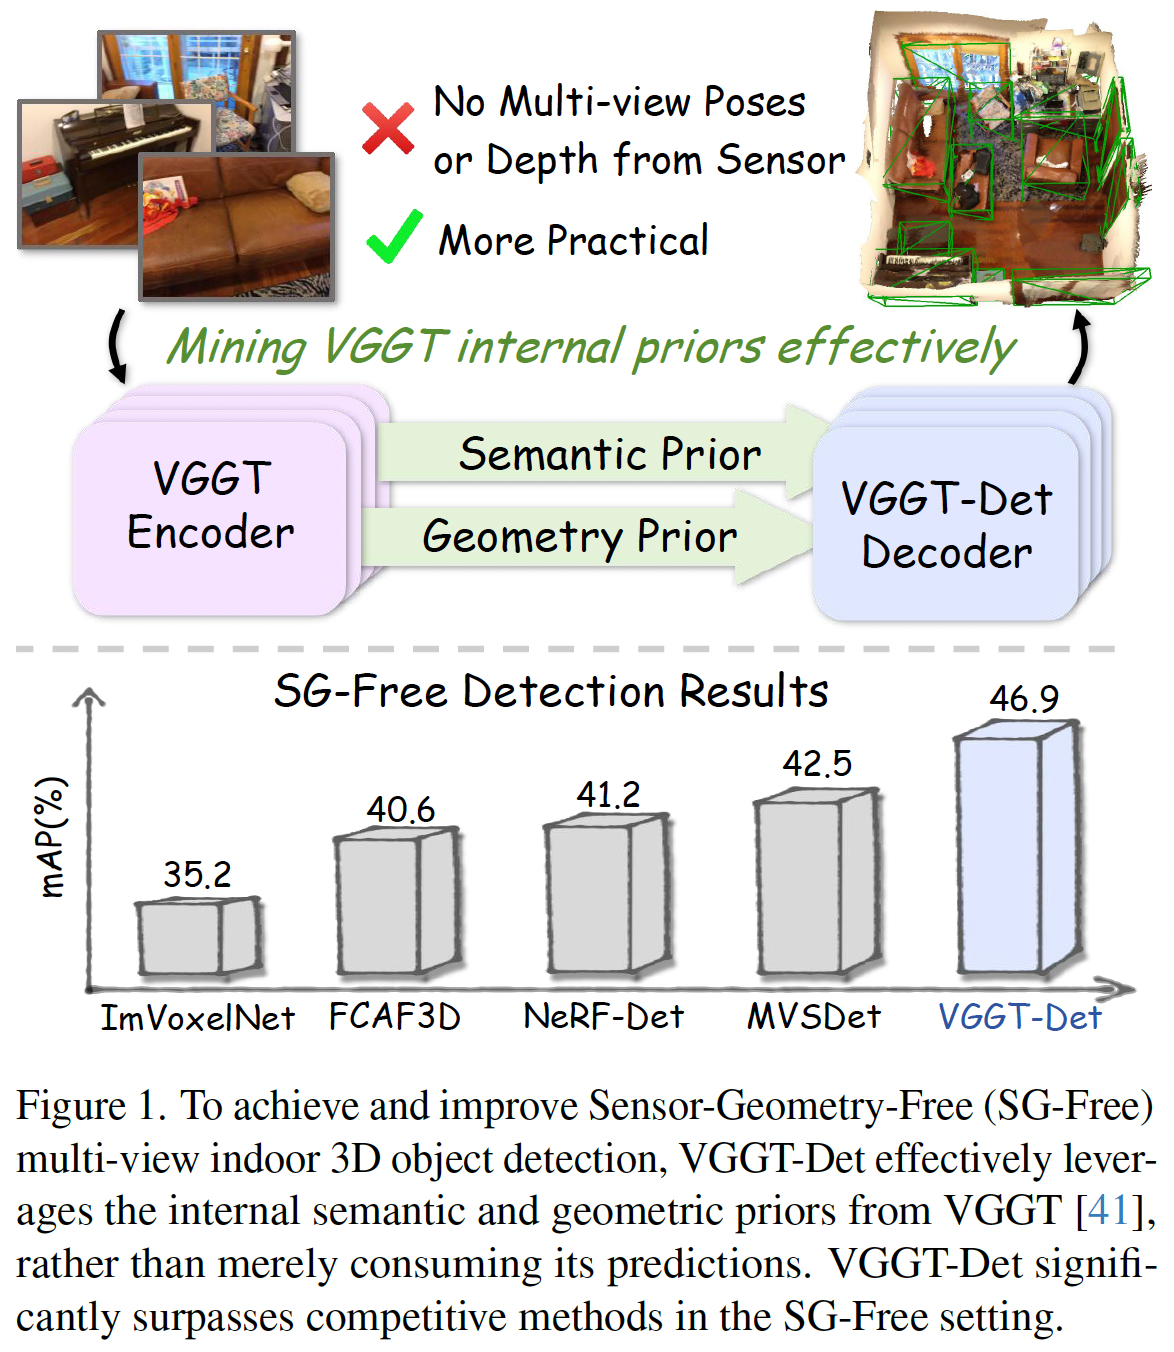
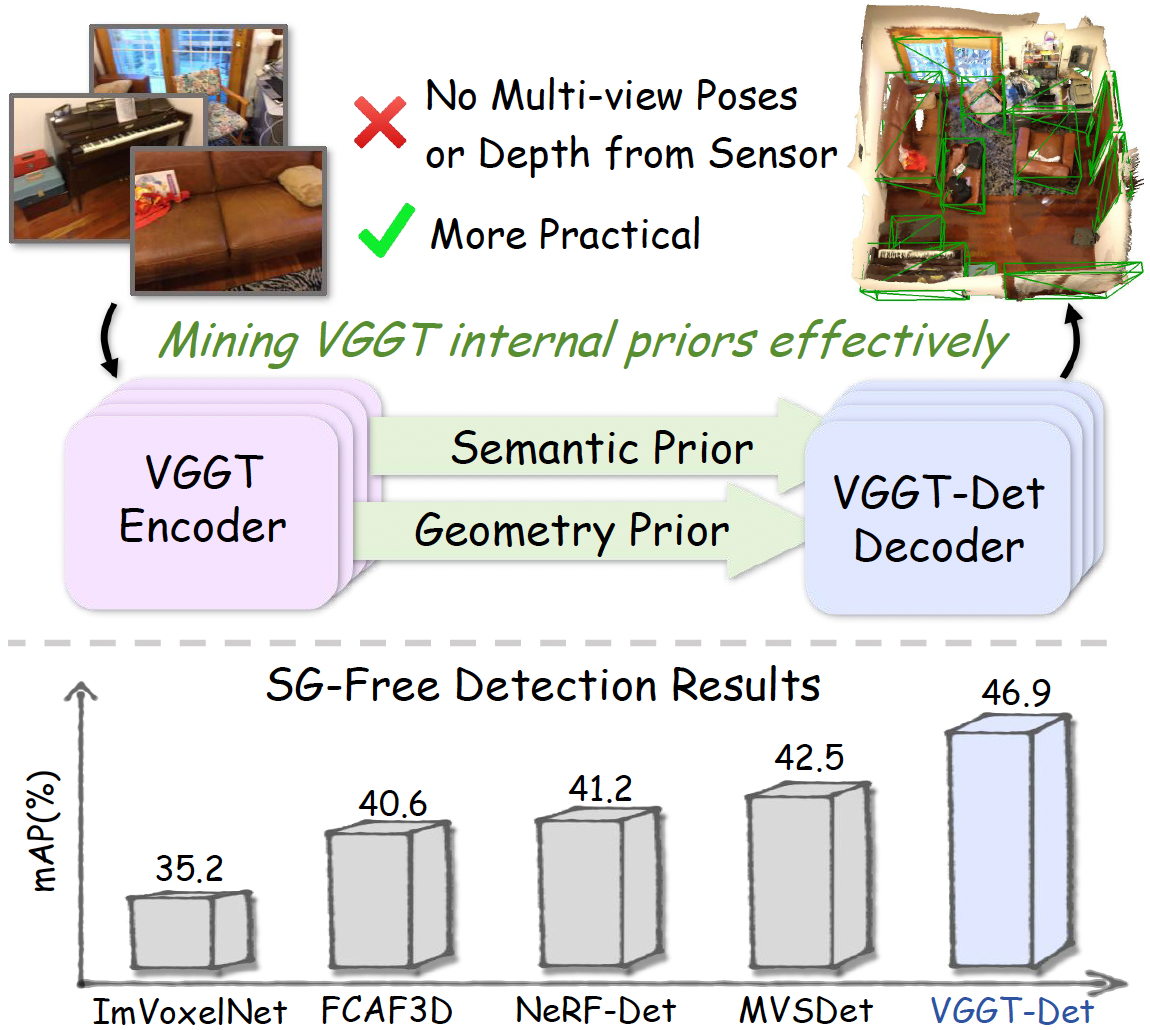
<init>

diff --git a/README.md b/README.md
@@ -16,20 +16,22 @@
 &#9745; Our VGGT-Det is accepted by CVPR2026. The paper and codes will be released soon.
 
 ## Motivation
-<img src="assets/teaser.png">
+<!-- <img src="assets/teaser.png"> -->
+<div align="center"> <img src="assets/teaser.png" width="80%"> </div>
 
 ## Framework 
 <img src="assets/method_1.png">
 
 ## Computation flow of Attention-Guided Query Generation 
-<img src="assets/method_2.png">
+<!-- <img src="assets/method_2.png"> -->
+<div align="center"> <img src="assets/method_2.png" width="80%"> </div>
 
 
 ## :scroll: BibTeX
 If CoDA is helpful, please cite:
 ```
 @inproceedings{cao2026vggtdet,
-  title={VGGT-Det: Mining VGGT Internal Priors for Sensor-Geometry-Free \\ Multi-View Indoor 3D Object Detection},
+  title={VGGT-Det: Mining VGGT Internal Priors for Sensor-Geometry-Free Multi-View Indoor 3D Object Detection},
   author={Cao, Yang and Wu, Feize and Dave Chen, Zhenyu and Zhong, Yingji and Hong, Lanqing and Xu, Dan},
   booktitle={CVPR},
   year={2026}
@@ -42,8 +44,9 @@ If you have any question, please email `yangcao.cs@gmail.com`.
 
 ## :scroll: Sincere Acknowledgement
 
-We would like to express our gratitude to the following works for their great contributions:
+Appreciate the following works for their great contributions:
 
 [VGGT](https://github.com/facebookresearch/vggt): Inspire our study for Sensor-Geometry-Free 3DDet
+
 [MVSDet](https://github.com/Pixie8888/MVSDet) and [NeRF-Det](https://github.com/facebookresearch/NeRF-Det): Serves as the
 foundation for our codes.
